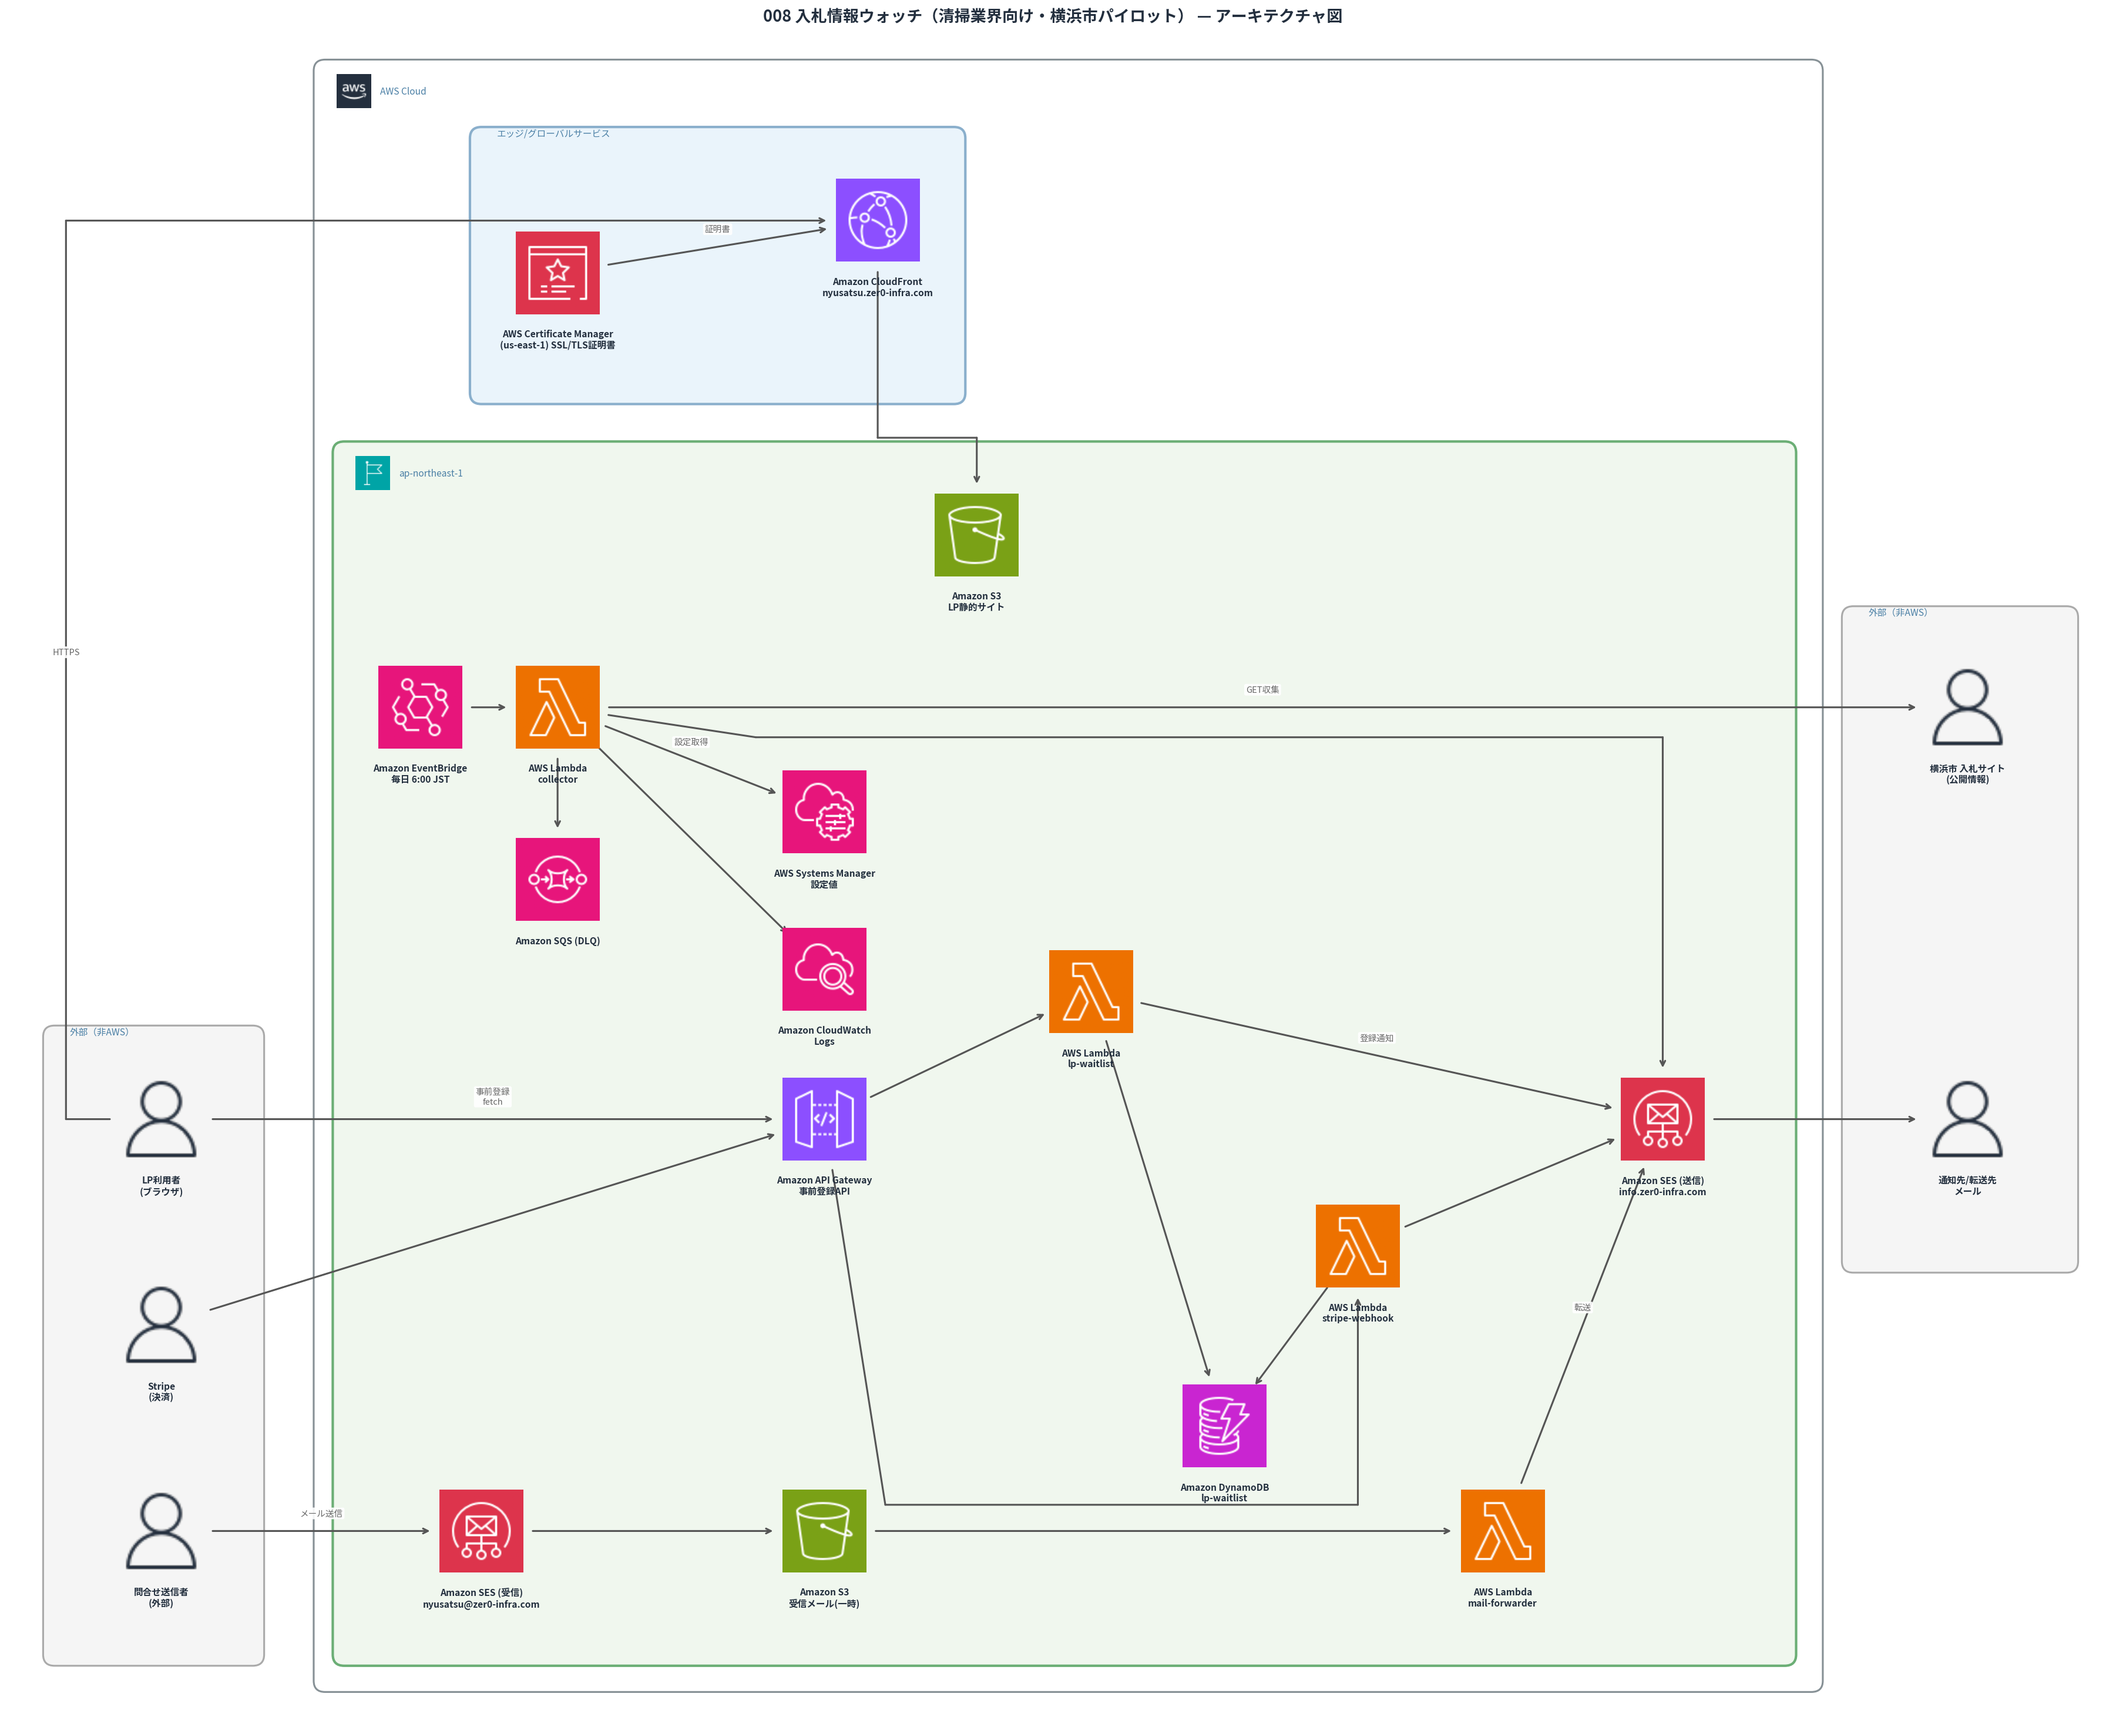
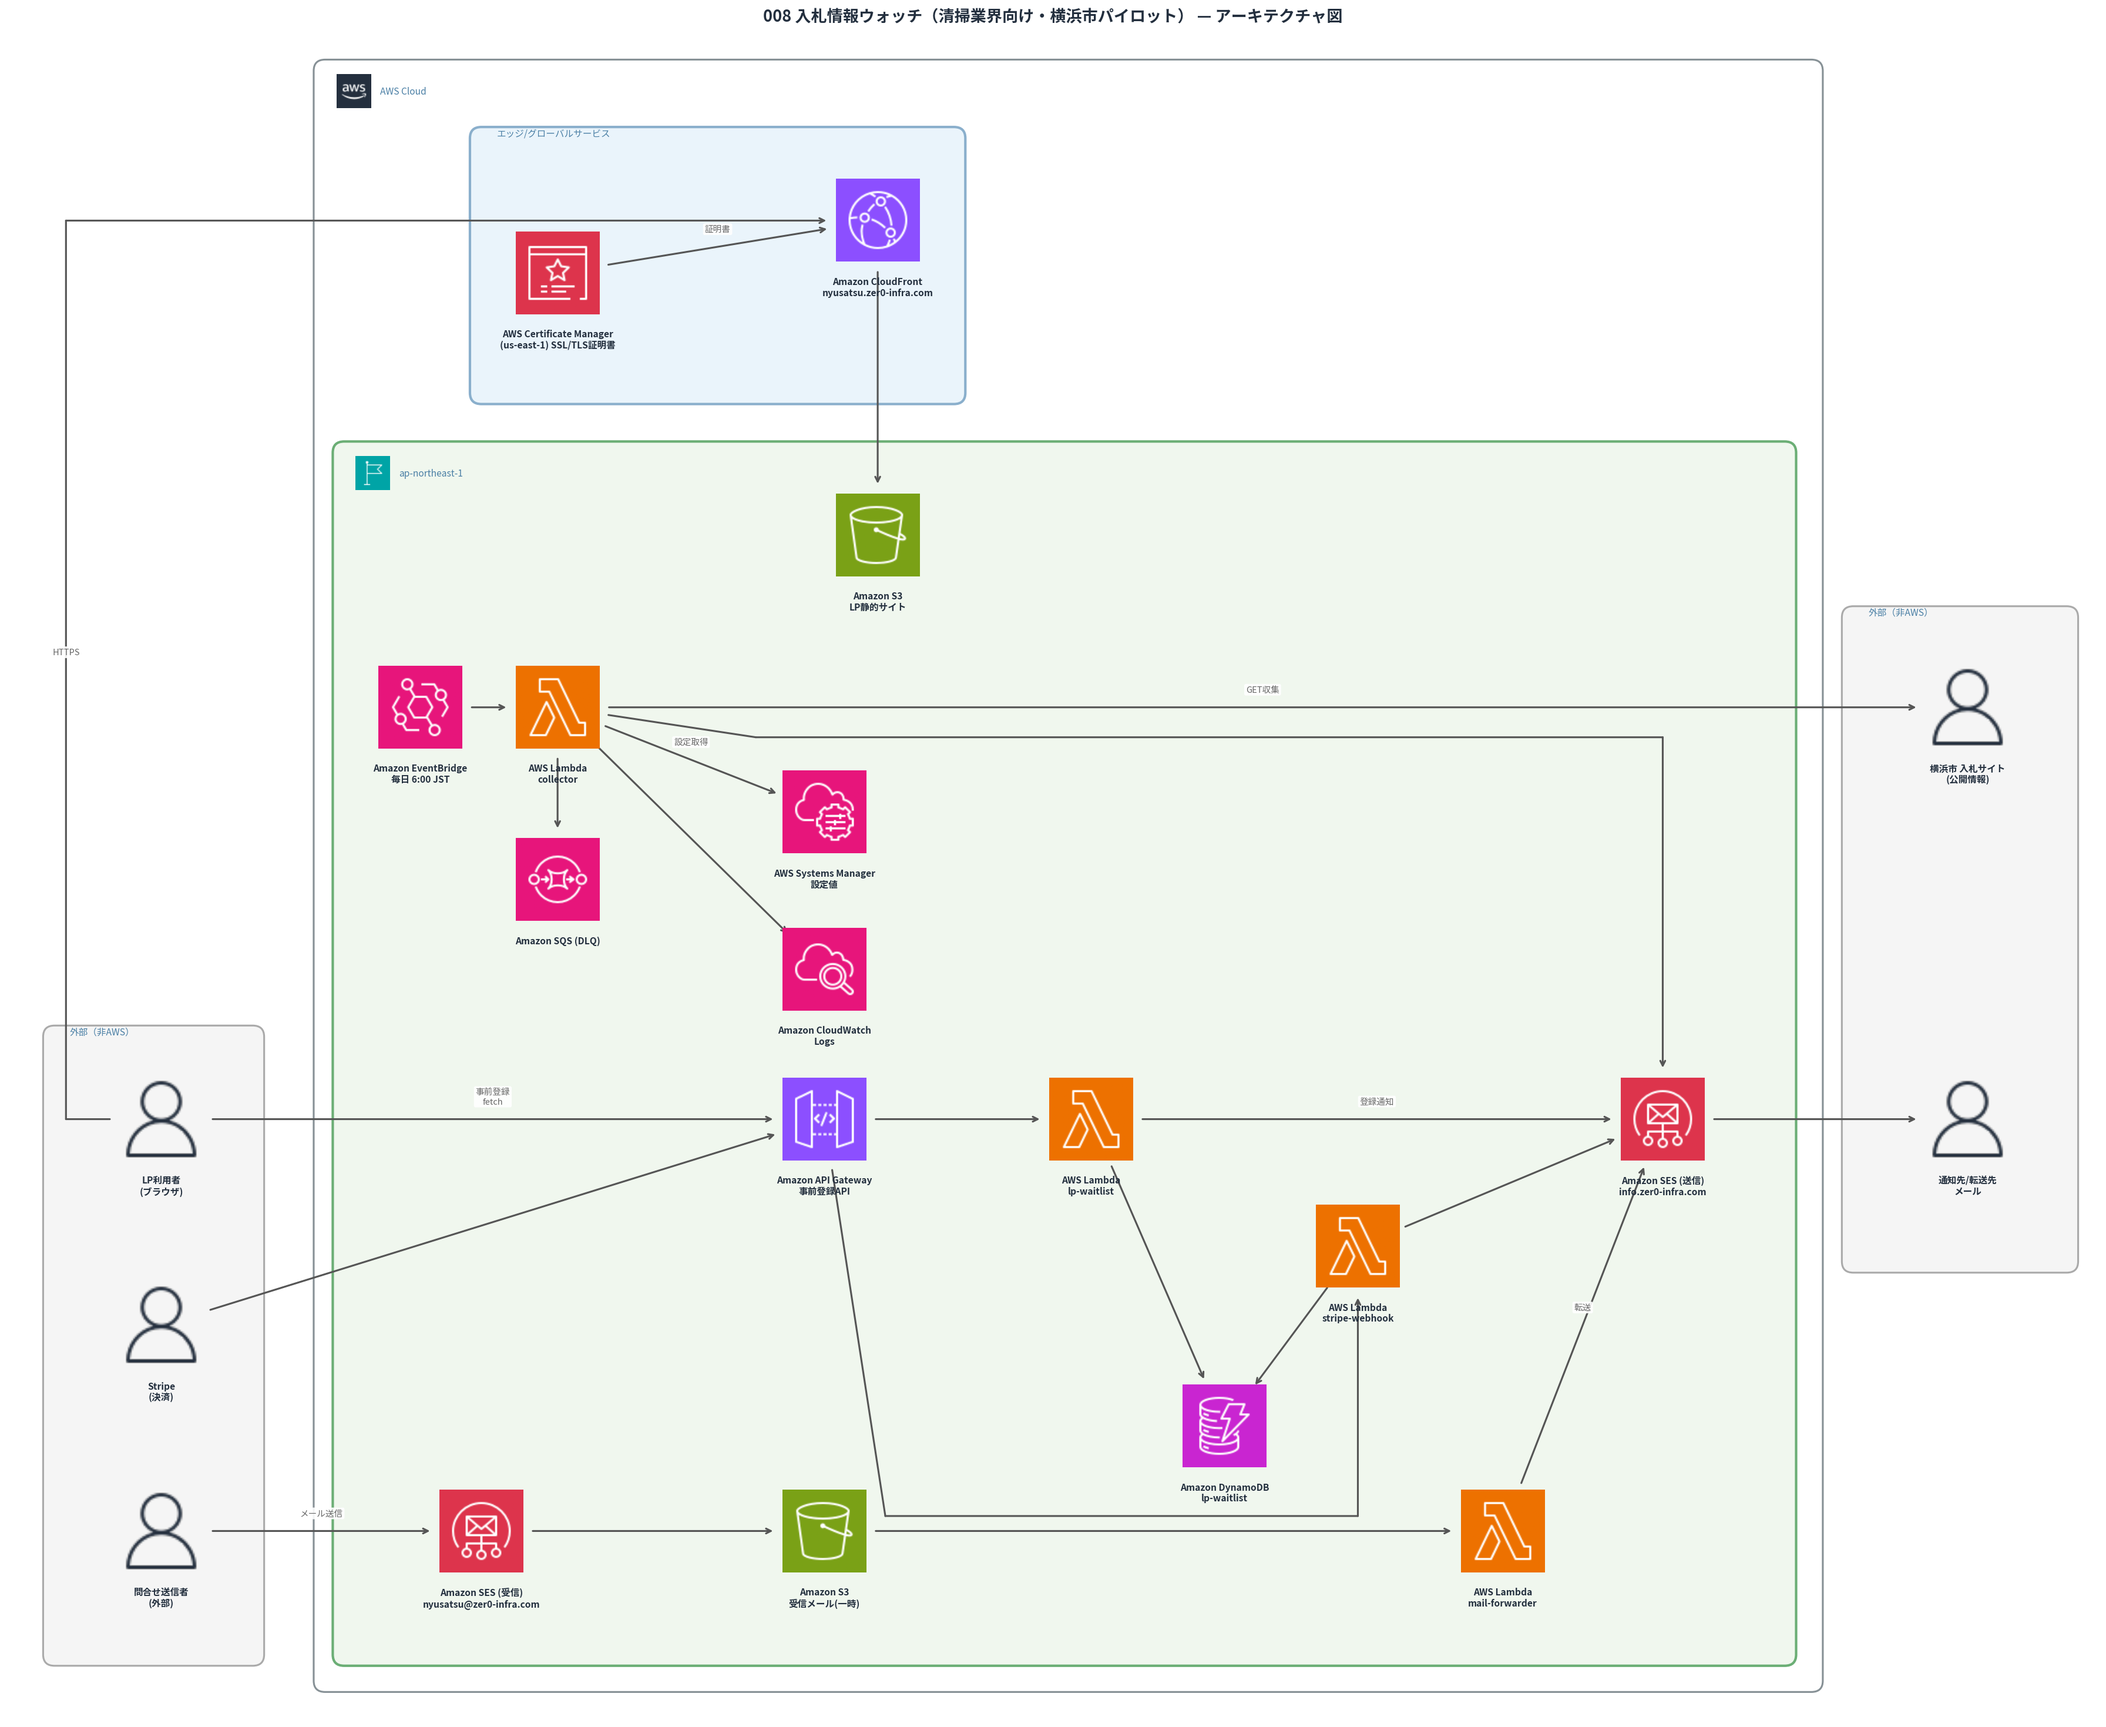
auto-sync: 2026-08-09 14:39

Changed region(s): [[0.4999, 0.5264, 0.5623, 0.7121], [0.3749, 0.2787, 0.4999, 0.3716]]

diff --git a/008_nyusatsu-notify-bot/scripts/generate_diagram.py b/008_nyusatsu-notify-bot/scripts/generate_diagram.py
@@ -66,18 +66,18 @@ def draw():
 
         # --- レーン2: LP事前登録(新規)  y=6.5 ---
         {'id': 'browser', 'icon': 'user',        'label': 'LP利用者\n(ブラウザ)',                 'x': 0.8,  'y': 6.5},
-        # S3(LP静的サイト)はregion枠上端寄り・ssm/cw列とlambda_wlの間の空きスペース
-        # に配置。'lambda'→'site'(GET収集)がy=12.0でregionの全幅(x=6.0〜24.5)を
-        # 横断しているため、2行ラベル(matplotlibのget_window_extent実測で
-        # 高さ約0.34、下端y≈13.36)がそれと交差しないy=14.3に置く(region上端を
-        # その分押し上げてある)。x=11.5はeb/lambda(x=4.2〜6.0)からアイコン矩形が
-        # 重ならない十分な距離。
-        {'id': 's3lp',    'icon': 's3',          'label': 'Amazon S3\nLP静的サイト',              'x': 11.5, 'y': 14.3},
+        # S3(LP静的サイト)はCloudFrontの真下(同じx=10.2)に配置し、cf→s3lpが
+        # 一直線の垂直線になるようにする(ユーザー指摘)。'lambda'→'site'
+        # (GET収集、y=12.0でregionの全幅を横断)と交差しないよう、2行ラベル
+        # (matplotlibのget_window_extent実測で高さ約0.34、下端y≈13.36)を
+        # その上に置けるy=14.3に置く(region上端をその分押し上げてある)。
+        {'id': 's3lp',    'icon': 's3',          'label': 'Amazon S3\nLP静的サイト',              'x': 10.2, 'y': 14.3},
         {'id': 'apigw',   'icon': 'api_gateway', 'label': 'Amazon API Gateway\n事前登録API',      'x': 9.5,  'y': 6.5},
-        # lambda_wl/lambda_sw(下記Stripe節)はapigwからの上下2トラックに分岐させ、
-        # ddb_wl/ses_outへの経路が互いの垂直線と交差しないよう縦にずらして配置する。
-        # apigwからの距離をほぼ揃え(上下対称寄り)、雑然と見えないよう整えてある。
-        {'id': 'lambda_wl','icon': 'lambda',     'label': 'AWS Lambda\nlp-waitlist',              'x': 13.0, 'y': 8.2},
+        # lambda_wlはapigw/ses_outと同じy=6.5に揃え、apigw→lambda_wl→ses_outが
+        # 一直線の水平線になるようにする(ユーザー指摘、直線の方がすっきり見える)。
+        # lambda_sw(下記Stripe節)はそのままだと同じ経路上で衝突するため、
+        # 下トラック(y=4.8)へ分離しapigwから迂回させてddb_wl/ses_outへ接続する。
+        {'id': 'lambda_wl','icon': 'lambda',     'label': 'AWS Lambda\nlp-waitlist',              'x': 13.0, 'y': 6.5},
         {'id': 'ddb_wl',  'icon': 'dynamodb',    'label': 'Amazon DynamoDB\nlp-waitlist',         'x': 14.75,'y': 2.4},
 
         # --- エッジ/グローバルサービス(2026-08-09、region枠の外・AWS Cloud内) ---
@@ -124,11 +124,9 @@ def draw():
         # x=-0.3とは0.15離して並走)を通り、region枠の外(エッジ/グローバル
         # クラスター、y=17.1)まで直接立ち上げる。
         ('browser',   'cf',       'HTTPS', [(-0.45, 6.5), (-0.45, 18.5)]),
-        # cf→s3lpはエッジクラスター下端(y=16.2)とregion枠上端(y=15.0)の間の
-        # 隙間(y=15.6)を東西に通ってからs3lpへ下りる。s3lpをy=14.3に置いたのは、
-        # 'lambda'→'site'(GET収集、y=12.0でregion全幅を横断)とラベルごと
-        # 交差しないため。
-        ('cf',        's3lp',     '', [(10.2, 15.6), (11.5, 15.6)]),
+        # cf→s3lpはs3lpをcfと同じx=10.2に置いたことで迂回なしの一直線になる
+        # (ユーザー指摘)。
+        ('cf',        's3lp',     ''),
         # cf/acmをregion外へ退避させたことでy=6.5〜7.3が完全に空いたため、
         # browser→apigwは迂回なしの直線で引ける(2026-08-09に単純化)。
         ('browser',   'apigw',    '事前登録\nfetch'),
@@ -150,11 +148,11 @@ def draw():
         # apigw→lambda_sw(下トラック)はlambda_wl→ddb_wl/ses_out(上トラック)の
         # 経路と高さが重ならないよう、いったんddb_wlのラベル下端より低い専用帯
         # まで下りてから右へ進み、lambda_swへ合流する。matplotlibの実測テキスト
-        # 境界(get_window_extent)で確認したところ、ddb_wlの2行ラベルは
-        # y=1.459〜1.800。その下端から0.1余裕を取ったy=1.35を通す
-        # (s3mail/lambda_fw接続線y=1.0とは0.35離れており平行線として
-        # 視覚的に十分区別できる)。
-        ('apigw',     'lambda_sw','', [(10.3, 1.35), (16.5, 1.35)]),
+        # 境界(get_window_extent、ラベル描画時と同じ y-HALF-0.2 アンカーを使用)
+        # で確認したところ、ddb_wlの2行ラベルはy=1.308〜1.650。その下端から
+        # 0.1余裕を取ったy=1.2を通す(s3mail/lambda_fw接続線y=1.0とは0.2離れて
+        # おり平行線として視覚的に区別できる)。
+        ('apigw',     'lambda_sw','', [(10.3, 1.2), (16.5, 1.2)]),
         ('lambda_sw', 'ddb_wl',   ''),
         ('lambda_sw', 'ses_out',  ''),
     ]

diff --git a/008_nyusatsu-notify-bot/docs-public/CHANGELOG.md b/008_nyusatsu-notify-bot/docs-public/CHANGELOG.md
@@ -14,6 +14,8 @@
 - 上記の再配置に伴い、S3(LP静的サイト)がEventBridge/Lambdaと矩形重なりを起こす配置ミスを検出・修正。さらに矢印がノードラベルの文字にかぶる問題（ユーザー指摘）を受け、matplotlibの`get_window_extent`でラベルの実測境界を取得し、全経路がラベル文字と交差しない座標になるまで調整
 - ユーザー指摘で「エッジ/グローバルサービス」クラスターとregion枠が重なっていることが判明。原因は`FancyBboxPatch`の`boxstyle='round,pad=0.15'`が指定座標より各辺0.15外側に描画を膨らませる仕様を計算に入れておらず、数値上のギャップ0.7が視覚的には0.4しかなかったこと。パディング分を加味してギャップを1.2に拡大し、CLAUDE.mdの「隣接クラスター間ギャップ0.8以上」を満たすよう修正
 - ユーザー指摘でLambda（lp-waitlist・stripe-webhook）2つの配置が雑然として見える点も改善。API Gatewayからの距離をほぼ揃えた対称配置に変更し、DynamoDBの位置も微調整。交差ゼロ・アイコン非接触は引き続きスクリプトで機械的に検証
+- ユーザー指摘でさらに2点改善: ①lp-waitlist LambdaをAPI Gateway・SES送信と同じy座標に揃え、一直線の水平経路にした ②S3(LP静的サイト)をCloudFrontの真下(同じx座標)に配置し、垂直経路を一直線にした
+- 「矢印は文字の下から始める」ルールの検証に使っていた自作スクリプトに、ラベル位置のアンカーオフセット誤り（本番コードは`y-HALF-0.2`だが検証側は`y-HALF-0.05`を使用）があり、実際にはDynamoDBラベルと交差していたことが発覚。matplotlibの`get_window_extent`を本番コードと同一のオフセットで呼び出す検証スクリプトに作り直し、全ノードラベル・全エッジラベルに対して全経路を再チェックして解消
 
 ### 構成図の線の交差を解消
 

diff --git a/008_nyusatsu-notify-bot/docs-public/README.md b/008_nyusatsu-notify-bot/docs-public/README.md
@@ -221,6 +221,7 @@ Fableでの調査比較の結果、以下の理由で横浜市を選定した。
 - 図全体を囲む「AWS Cloud」外枠を新設し、ap-northeast-1リージョン枠をその内側に配置する2階層構造に変更
 - ユーザー指摘で二重内包の冗長性が判明し、CloudFront・ACM(us-east-1)をリージョン外の「エッジ/グローバルサービス」クラスターへ分離。矢印がラベル文字にかぶる問題もmatplotlibの実測境界を使って解消
 - クラスター枠の重なり（`FancyBboxPatch`のpad分を計算に入れ忘れていたのが原因）、Lambda 2つの雑然とした配置もユーザー指摘を受けて修正
+- lp-waitlist LambdaをAPI Gateway・SES送信と一直線に、S3(LP静的サイト)をCloudFrontの真下に配置し直して経路を直線化。ラベル衝突の検証スクリプト自体にオフセット誤りがあった問題も、本番コードと同一条件で再検証する形に修正して解消
 
 #### 構成図の線の交差を解消
 
